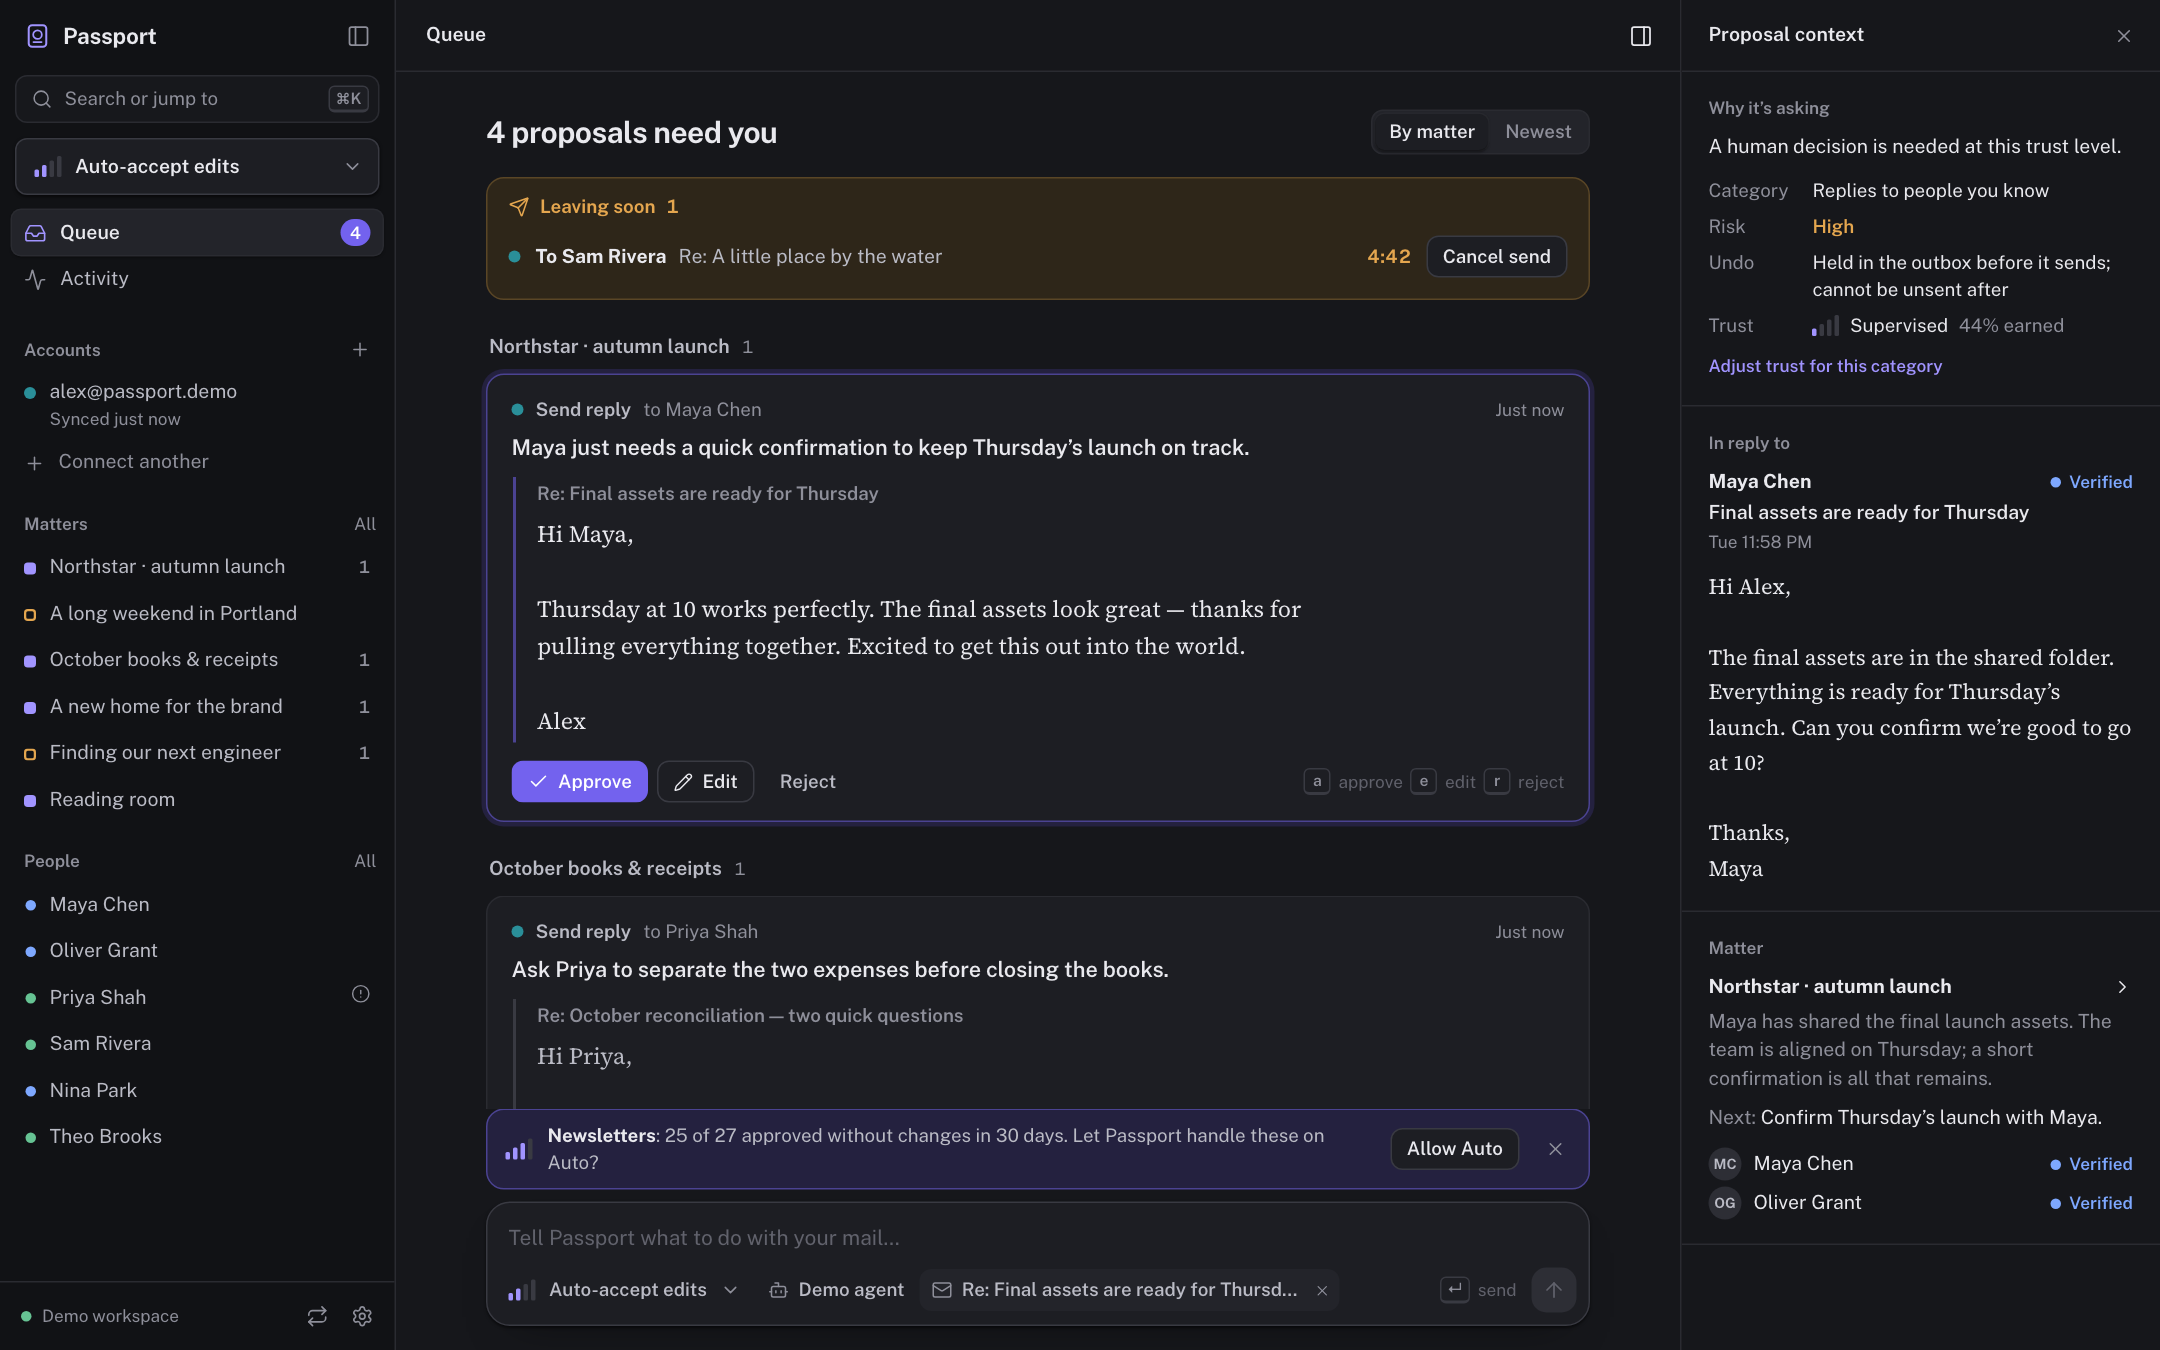
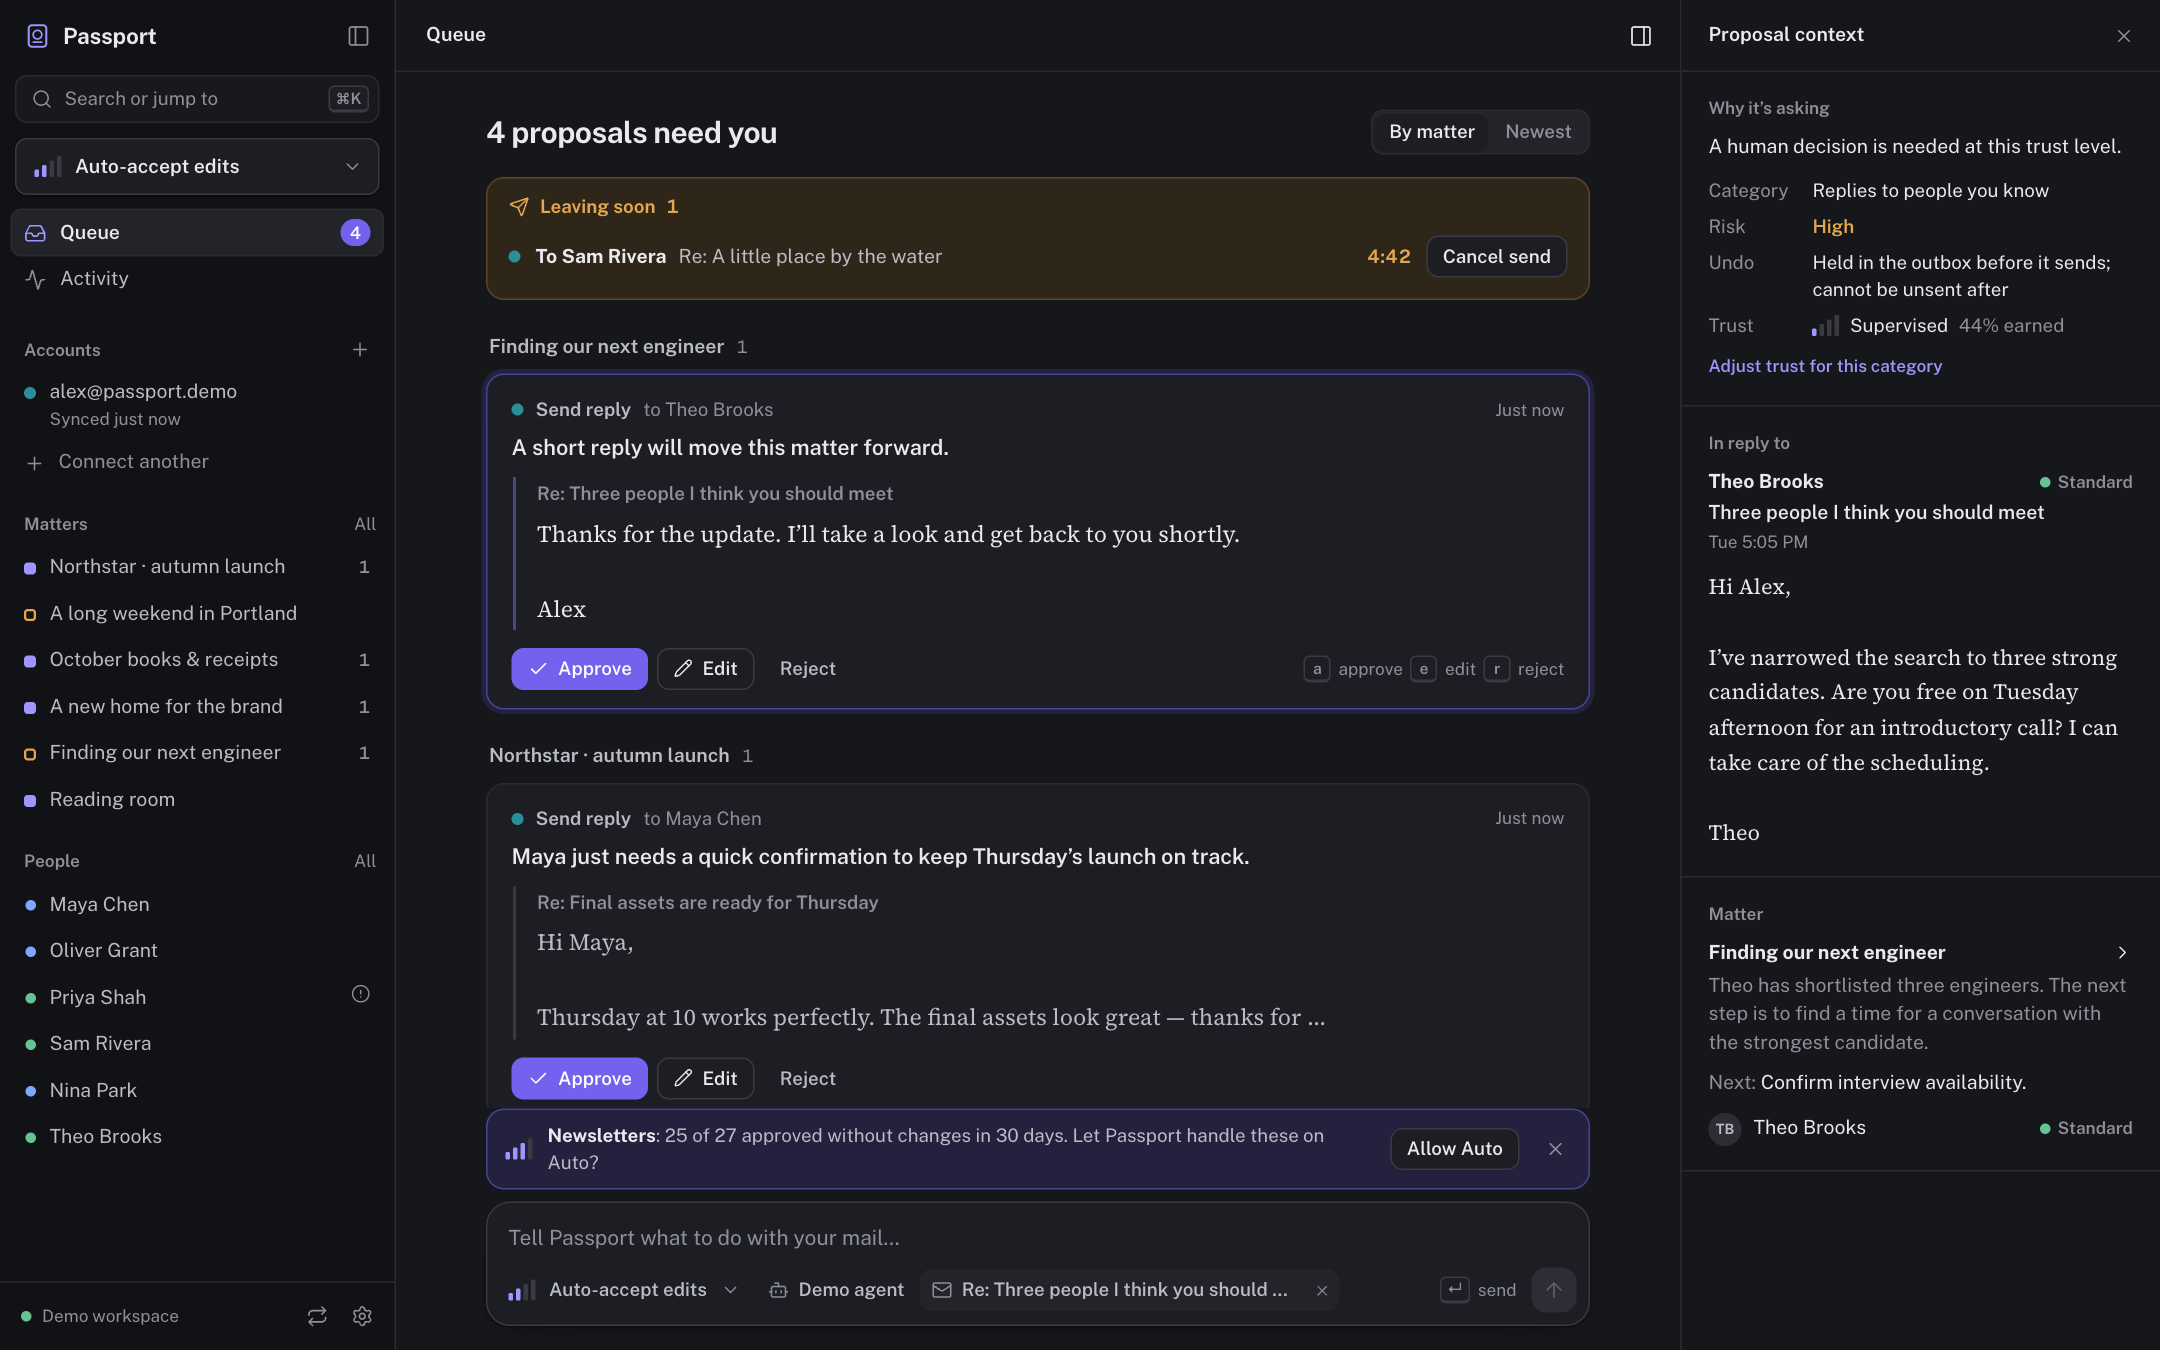
fix(web): readable placeholder and hint text in both themes
V2-16: the composer placeholder, send hint, decision key hints and empty sidebar
text move from --faint (about 2.7:1) to --muted (5.2:1 or better on --surface).
--faint is kept for decorative strokes and disabled glyphs; a test computes the
contrast from styles.css so it cannot regress. Queue screenshots regenerated.

diff --git a/apps/web/src/styles.test.ts b/apps/web/src/styles.test.ts
@@ -1,0 +1,68 @@
+// @vitest-environment node
+import { readFileSync } from "node:fs";
+import { describe, expect, it } from "vitest";
+
+const css = readFileSync(new URL("./styles.css", import.meta.url), "utf8");
+
+/** `[light, dark]` for a `--name: light-dark(#light, #dark)` token. */
+function token(name: string) {
+  const match = css.match(new RegExp(`--${name}: light-dark\\((#[0-9a-f]{6}), (#[0-9a-f]{6})\\)`));
+  if (!match) {
+    throw new Error(`No light-dark token --${name}`);
+  }
+  return match.slice(1, 3);
+}
+
+/** The custom property a rule sets `color` from. */
+function colorToken(selector: string) {
+  const start = css.indexOf(`\n${selector} {`);
+  if (start < 0) {
+    throw new Error(`No rule for ${selector}`);
+  }
+  const body = css.slice(start, css.indexOf("}", start));
+  const name = body.match(/\n {2}color: var\(--([a-z0-9-]+)\);/)?.[1];
+  if (!name) {
+    throw new Error(`${selector} sets no color token`);
+  }
+  return name;
+}
+
+function luminance(hex: string) {
+  const weights = [0.2126, 0.7152, 0.0722];
+  return weights.reduce((sum, weight, index) => {
+    const channel = Number.parseInt(hex.slice(1 + index * 2, 3 + index * 2), 16) / 255;
+    const linear = channel <= 0.04045 ? channel / 12.92 : ((channel + 0.055) / 1.055) ** 2.4;
+    return sum + weight * linear;
+  }, 0);
+}
+
+function contrast(foreground: string, background: string) {
+  const a = luminance(foreground),
+    b = luminance(background);
+  return (Math.max(a, b) + 0.05) / (Math.min(a, b) + 0.05);
+}
+
+describe("instructional text contrast", () => {
+  const rules: [selector: string, background: string][] = [
+    [".composer textarea::placeholder", "surface"],
+    [".composer-hint", "surface"],
+    [".key-hints", "surface"],
+    [".side-empty", "sidebar-bg"],
+  ];
+  for (const [selector, background] of rules) {
+    it(`V2-16: ${selector} reaches 4.5:1 in light and dark`, () => {
+      const foreground = token(colorToken(selector)),
+        surface = token(background);
+      foreground.forEach((color, theme) => {
+        expect(contrast(color, surface[theme] ?? "")).toBeGreaterThanOrEqual(4.5);
+      });
+    });
+  }
+
+  it("V2-16: --faint is kept for decorative strokes and disabled glyphs", () => {
+    const users = [...css.matchAll(/\n([^\n{}]+) \{[^}]*\n {2}color: var\(--faint\);/g)].map(
+      (match) => match[1],
+    );
+    expect(users.sort()).toEqual([".crumb-sep", ".send-btn:disabled"]);
+  });
+});

diff --git a/apps/web/src/styles.css b/apps/web/src/styles.css
@@ -22,6 +22,7 @@
   --text: light-dark(#1b1b20, #e9e9ee);
   --text-2: light-dark(#45464f, #babbc5);
   --muted: light-dark(#6a6b75, #8e8f9a);
+  /* Decorative strokes and disabled glyphs only; readable text uses --muted or stronger. */
   --faint: light-dark(#9c9da6, #61626c);
 
   --ink: light-dark(#5340c9, #a194ff);
@@ -734,7 +735,7 @@ input[type="radio"] {
 .side-empty {
   padding: 4px 8px;
   font-size: var(--t-s);
-  color: var(--faint);
+  color: var(--muted);
 }
 .matter-glyph {
   width: 8px;
@@ -1452,7 +1453,7 @@ input[type="radio"] {
   align-items: center;
   gap: 5px;
   font-size: var(--t-xs);
-  color: var(--faint);
+  color: var(--muted);
 }
 .key-hints .kbd + .kbd {
   margin-left: 0;
@@ -1641,7 +1642,7 @@ input[type="radio"] {
   box-shadow: none;
 }
 .composer textarea::placeholder {
-  color: var(--faint);
+  color: var(--muted);
 }
 .composer-footer {
   display: flex;
@@ -1702,7 +1703,7 @@ button.composer-chip:hover {
   gap: 5px;
   margin-right: 8px;
   font-size: var(--t-xs);
-  color: var(--faint);
+  color: var(--muted);
 }
 .send-btn {
   display: grid;
